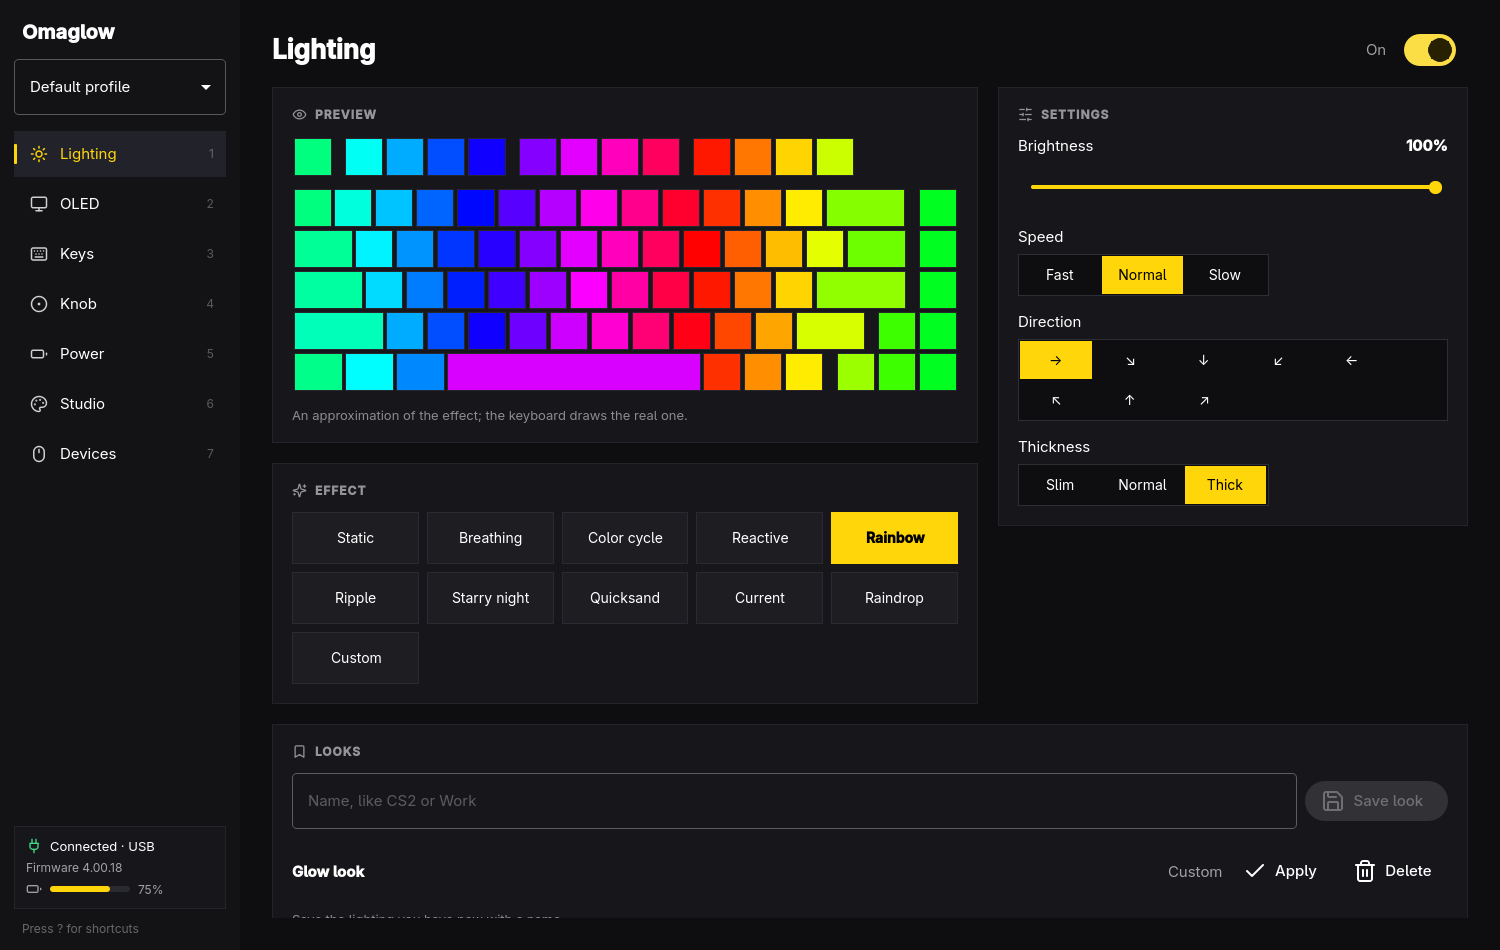
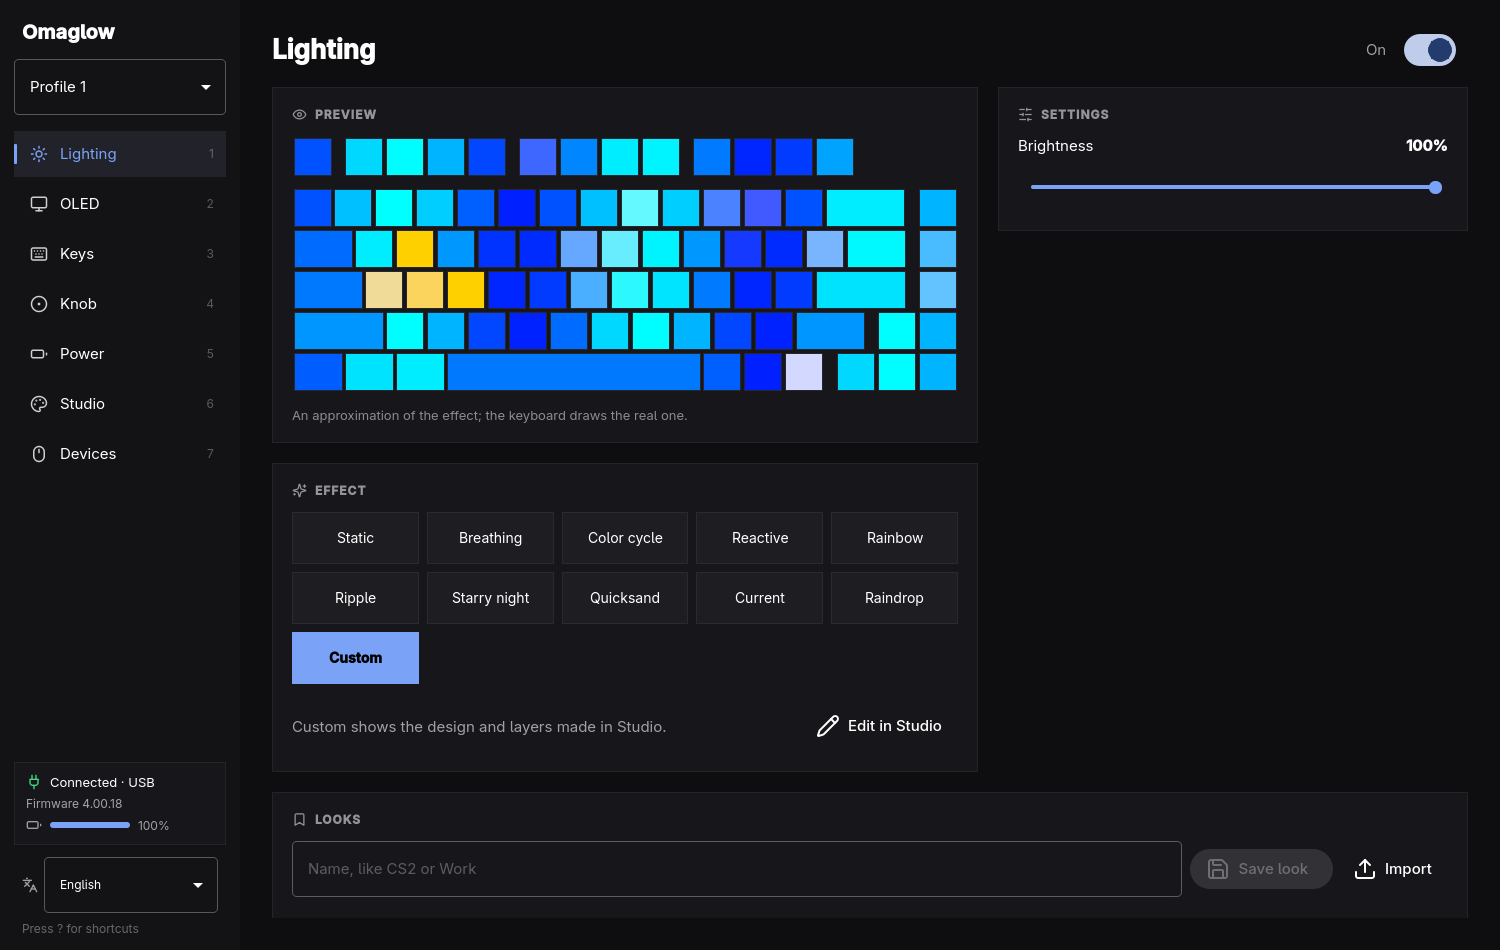
docs: prepare for a public repo: AUR PKGBUILD, disclaimer and new screenshot

diff --git a/README.md b/README.md
@@ -7,6 +7,11 @@ without Armoury Crate, Synapse or other vendor software. One app for the
 keyboard, the mouse and the laptop, with looks that light all of them at once
 and an option to follow the Omarchy theme.
 
+Omaglow is a personal project, not affiliated with or endorsed by ASUS or
+Razer. It sends the same settings and lighting commands the vendor software
+sends and never updates or writes firmware. It is tested only on the devices
+below; others may not work, and support is best effort.
+
 ## Supported devices
 
 | Device | What Omaglow does | How |
@@ -185,15 +190,20 @@ not affiliated with or endorsed by either company.
 ```sh
 bin/build           # build/omaglow
 bin/test            # Qt Test, offscreen
-bin/check-version   # VERSION and the PKGBUILD's pkgver agree
+bin/check-version   # VERSION and both PKGBUILDs' pkgver agree
 ```
 
 CI (`.github/workflows/ci.yml`) runs these three on Arch Linux for every push
 and pull request.
 
-To release a version: write it in `VERSION` and in `pkgbuild/PKGBUILD`'s
-`pkgver`, move the Unreleased notes in `CHANGELOG.md` under it, and tag the
-commit `vX.Y.Z`.
+To release a version: write it in `VERSION` and in the `pkgver` of
+`pkgbuild/PKGBUILD` and `aur/PKGBUILD`, move the Unreleased notes in
+`CHANGELOG.md` under it, and tag the commit `vX.Y.Z`. Then, in `aur/`, put the
+output of `makepkg -g` in `sha256sums` and run
+`makepkg --printsrcinfo > .SRCINFO`.
+
+`pkgbuild/PKGBUILD` builds this checkout (`bin/install`); `aur/PKGBUILD` builds
+a released tag from GitHub, for the AUR.
 
 The protocol was reverse engineered from Armoury Crate USB captures; the packet
 builders in `src/protocol.cpp` are tested against the captured bytes.

diff --git a/CHANGELOG.md b/CHANGELOG.md
@@ -4,6 +4,10 @@ Each version's changes, newest first. The version is in `VERSION`.
 
 ## Unreleased
 
+- A PKGBUILD for the AUR in `aur/`, building a released tag.
+- The README says Omaglow isn't affiliated with ASUS or Razer and never writes
+  firmware, and shows the current app.
+
 ## 0.30.0
 
 - Moving layers run smoother: each frame sends only the keys that changed, so
